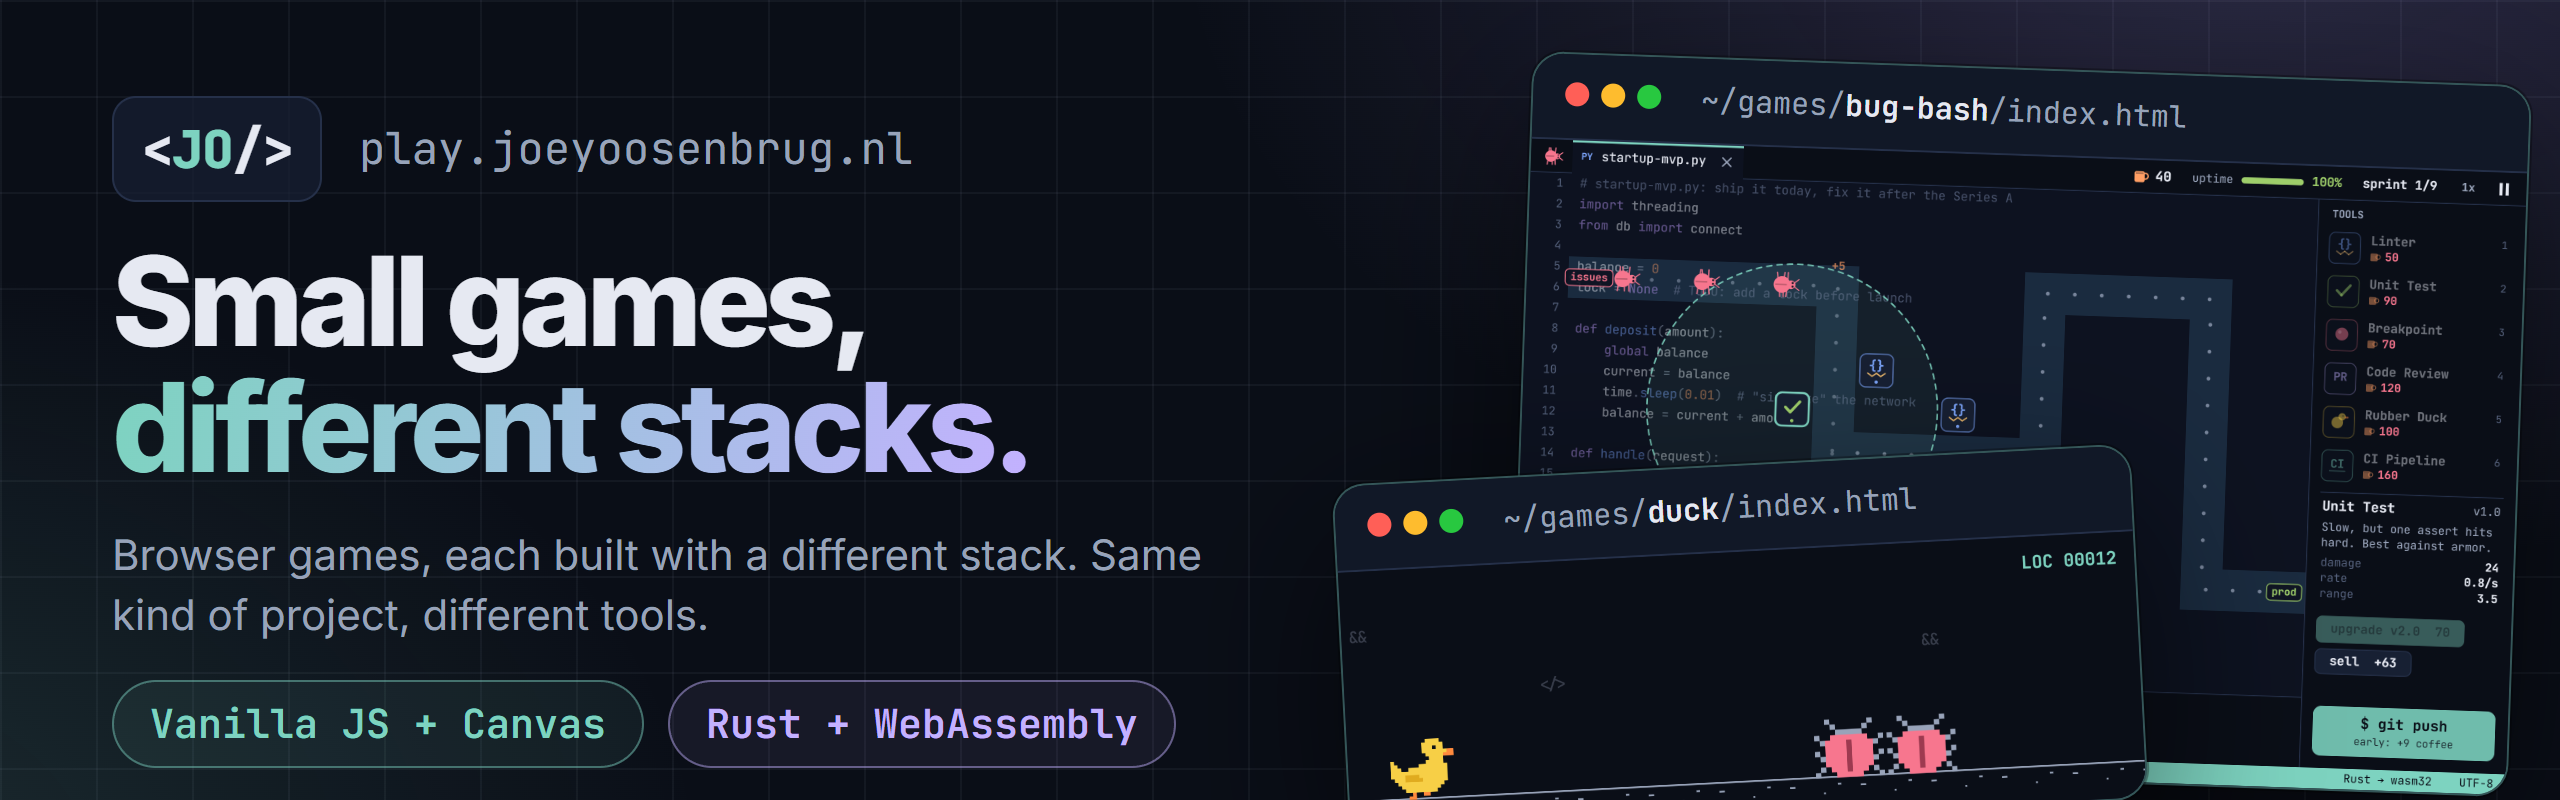
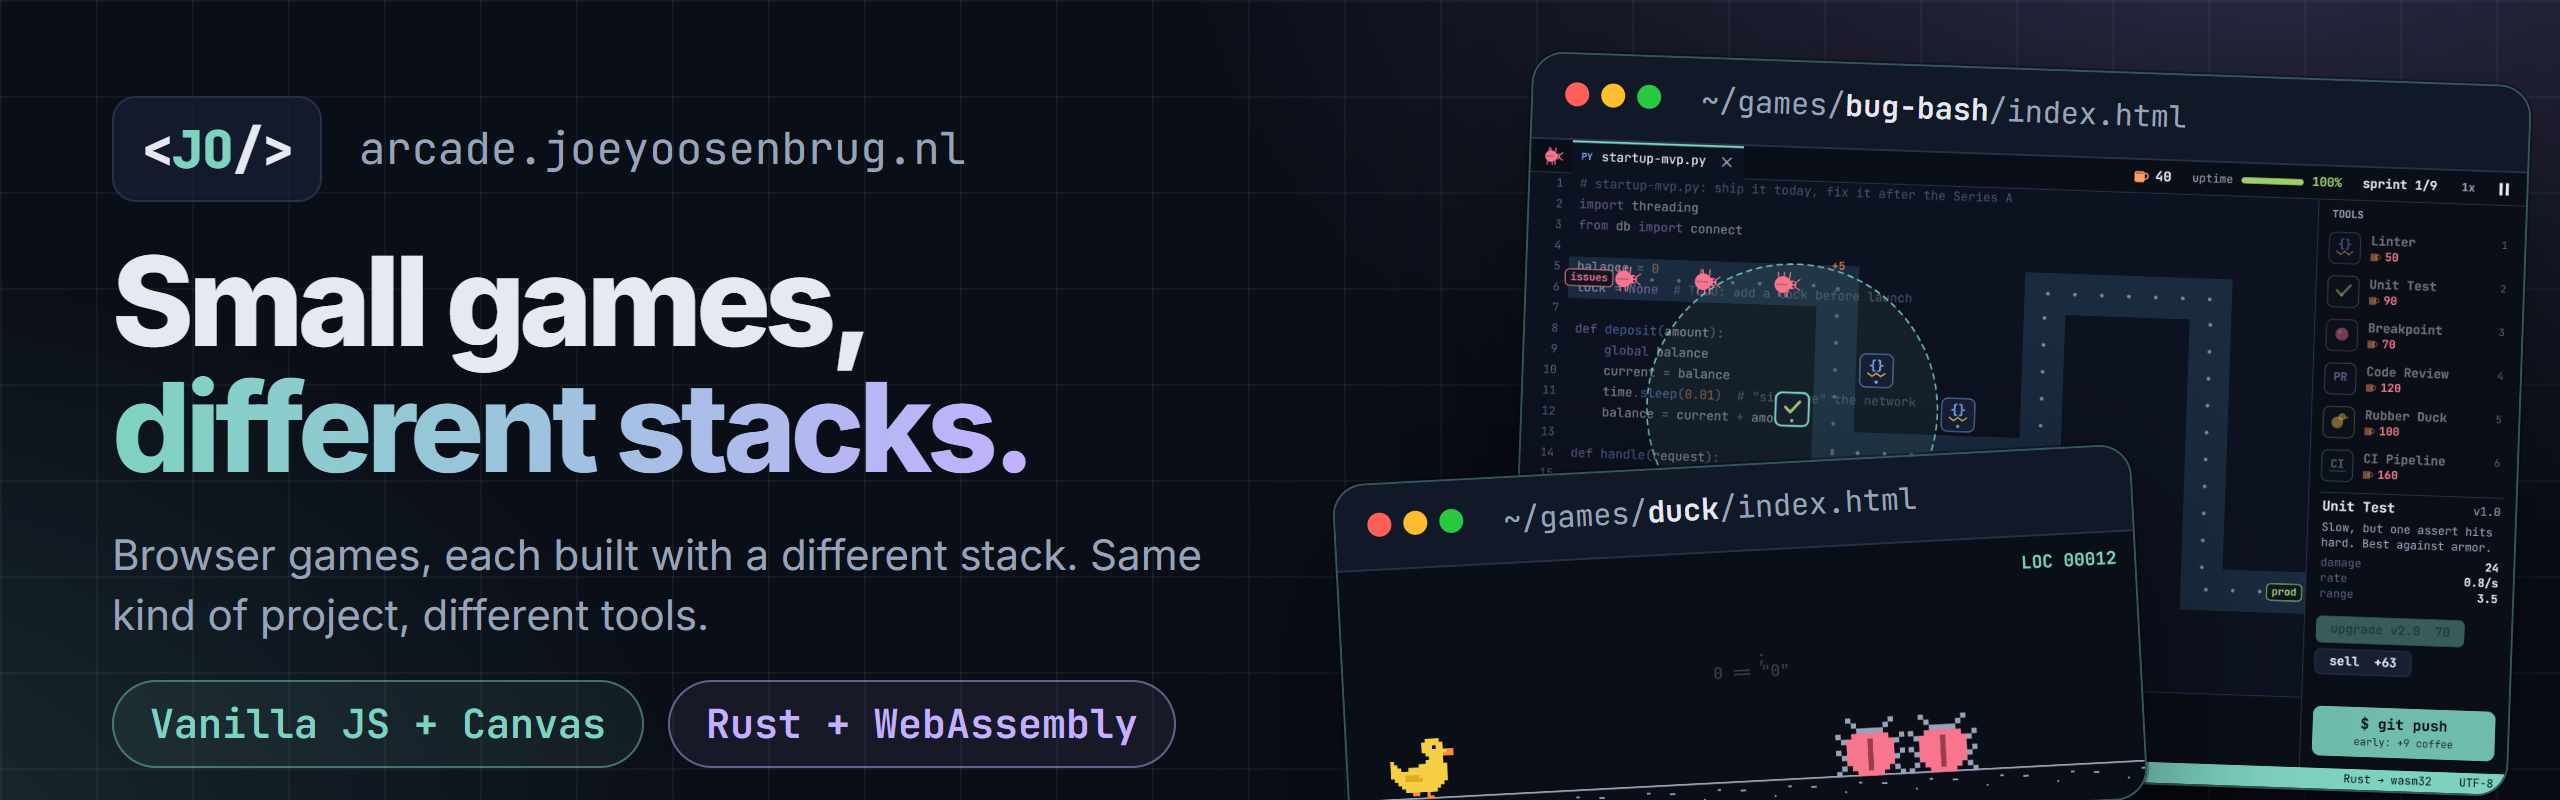
Point the site at arcade.joeyoosenbrug.nl
GitHub Pages serves the site at arcade.joeyoosenbrug.nl, but the code
still used play.joeyoosenbrug.nl, which has no DNS record. So og:image,
og:url, canonical and hreflang links all pointed at a dead host, and
link previews stayed empty. Use the real domain everywhere, including
static/CNAME, the docs and the share images.

Changed region(s): [[0.125, 0.1562, 0.375, 0.2188], [0.6875, 0.875, 0.7812, 0.9688]]

diff --git a/e2e/site.spec.ts b/e2e/site.spec.ts
@@ -125,7 +125,7 @@ test('pages have a large share image that exists', async ({ page, request }) => 
     await page.goto(path);
     await expect(page.locator('meta[name="twitter:card"]')).toHaveAttribute('content', 'summary_large_image');
     const url = await page.locator('meta[property="og:image"]').getAttribute('content');
-    expect(url).toBe(`https://play.joeyoosenbrug.nl${image}`);
+    expect(url).toBe(`https://arcade.joeyoosenbrug.nl${image}`);
     const res = await request.get(image);
     expect(res.status()).toBe(200);
     expect(res.headers()['content-type']).toBe('image/png');

diff --git a/svelte.config.js b/svelte.config.js
@@ -3,7 +3,7 @@ import { readFileSync } from 'node:fs';
 import adapter from '@sveltejs/adapter-static';
 import { vitePreprocess } from '@sveltejs/vite-plugin-svelte';
 
-/** Set BASE_PATH=/repo-name when deploying to a GitHub Pages project site instead of play.joeyoosenbrug.nl. */
+/** Set BASE_PATH=/repo-name when deploying to a GitHub Pages project site instead of arcade.joeyoosenbrug.nl. */
 const base = process.env.BASE_PATH ?? '';
 
 /**

diff --git a/src/lib/components/Seo.svelte b/src/lib/components/Seo.svelte
@@ -15,7 +15,7 @@
     imageAlt = 'Play: small games, different stacks'
   }: { title: string; description: string; path?: string; image?: string; imageAlt?: string } = $props();
 
-  const siteUrl = 'https://play.joeyoosenbrug.nl';
+  const siteUrl = 'https://arcade.joeyoosenbrug.nl';
   const url = $derived(siteUrl + localize(path, app.locale));
 </script>
 

diff --git a/src/lib/locales/en.ts b/src/lib/locales/en.ts
@@ -19,7 +19,7 @@ export default {
     how: 'How it works'
   },
   hero: {
-    kicker: 'play.joeyoosenbrug.nl',
+    kicker: 'arcade.joeyoosenbrug.nl',
     title: 'Small games,',
     titleAccent: 'different stacks.',
     intro:

diff --git a/src/lib/locales/nl.ts b/src/lib/locales/nl.ts
@@ -20,7 +20,7 @@ export default {
     how: 'Hoe het werkt'
   },
   hero: {
-    kicker: 'play.joeyoosenbrug.nl',
+    kicker: 'arcade.joeyoosenbrug.nl',
     title: 'Kleine games,',
     titleAccent: 'andere stacks.',
     intro:

diff --git a/README.md b/README.md
@@ -2,7 +2,7 @@
 
 ![Play: small games, different stacks](docs/banner.png)
 
-A hub of small browser games at [play.joeyoosenbrug.nl](https://play.joeyoosenbrug.nl), each built with a different frontend stack. It is a personal playground: the same kind of small project in different frameworks, to feel how they compare.
+A hub of small browser games at [arcade.joeyoosenbrug.nl](https://arcade.joeyoosenbrug.nl), each built with a different frontend stack. It is a personal playground: the same kind of small project in different frameworks, to feel how they compare.
 
 The hub looks like the rest of [joeyoosenbrug.nl](https://joeyoosenbrug.nl): it uses the portfolio's [design kit](https://github.com/joeykwispel/Portfolio/tree/main/docs/design-kit) (tokens, header, cards), English at `/` and Dutch at `/nl/`.
 
@@ -58,4 +58,4 @@ Inside a game folder, `npm run dev` / `npm run build` / `npm test` work on that 
 
 ## Deploy
 
-Merging a pull request into `master` runs `.github/workflows/deploy.yml`, which builds everything and publishes `dist/` to GitHub Pages. One-time setup: Settings → Pages → Source: GitHub Actions, custom domain `play.joeyoosenbrug.nl` (the `CNAME` file is in `static/`), and a DNS CNAME record for `play` pointing at `joeykwispel.github.io`.
+Merging a pull request into `master` runs `.github/workflows/deploy.yml`, which builds everything and publishes `dist/` to GitHub Pages. One-time setup: Settings → Pages → Source: GitHub Actions, custom domain `arcade.joeyoosenbrug.nl` (the `CNAME` file is in `static/`), and a DNS CNAME record for `arcade` pointing at `joeykwispel.github.io`.
